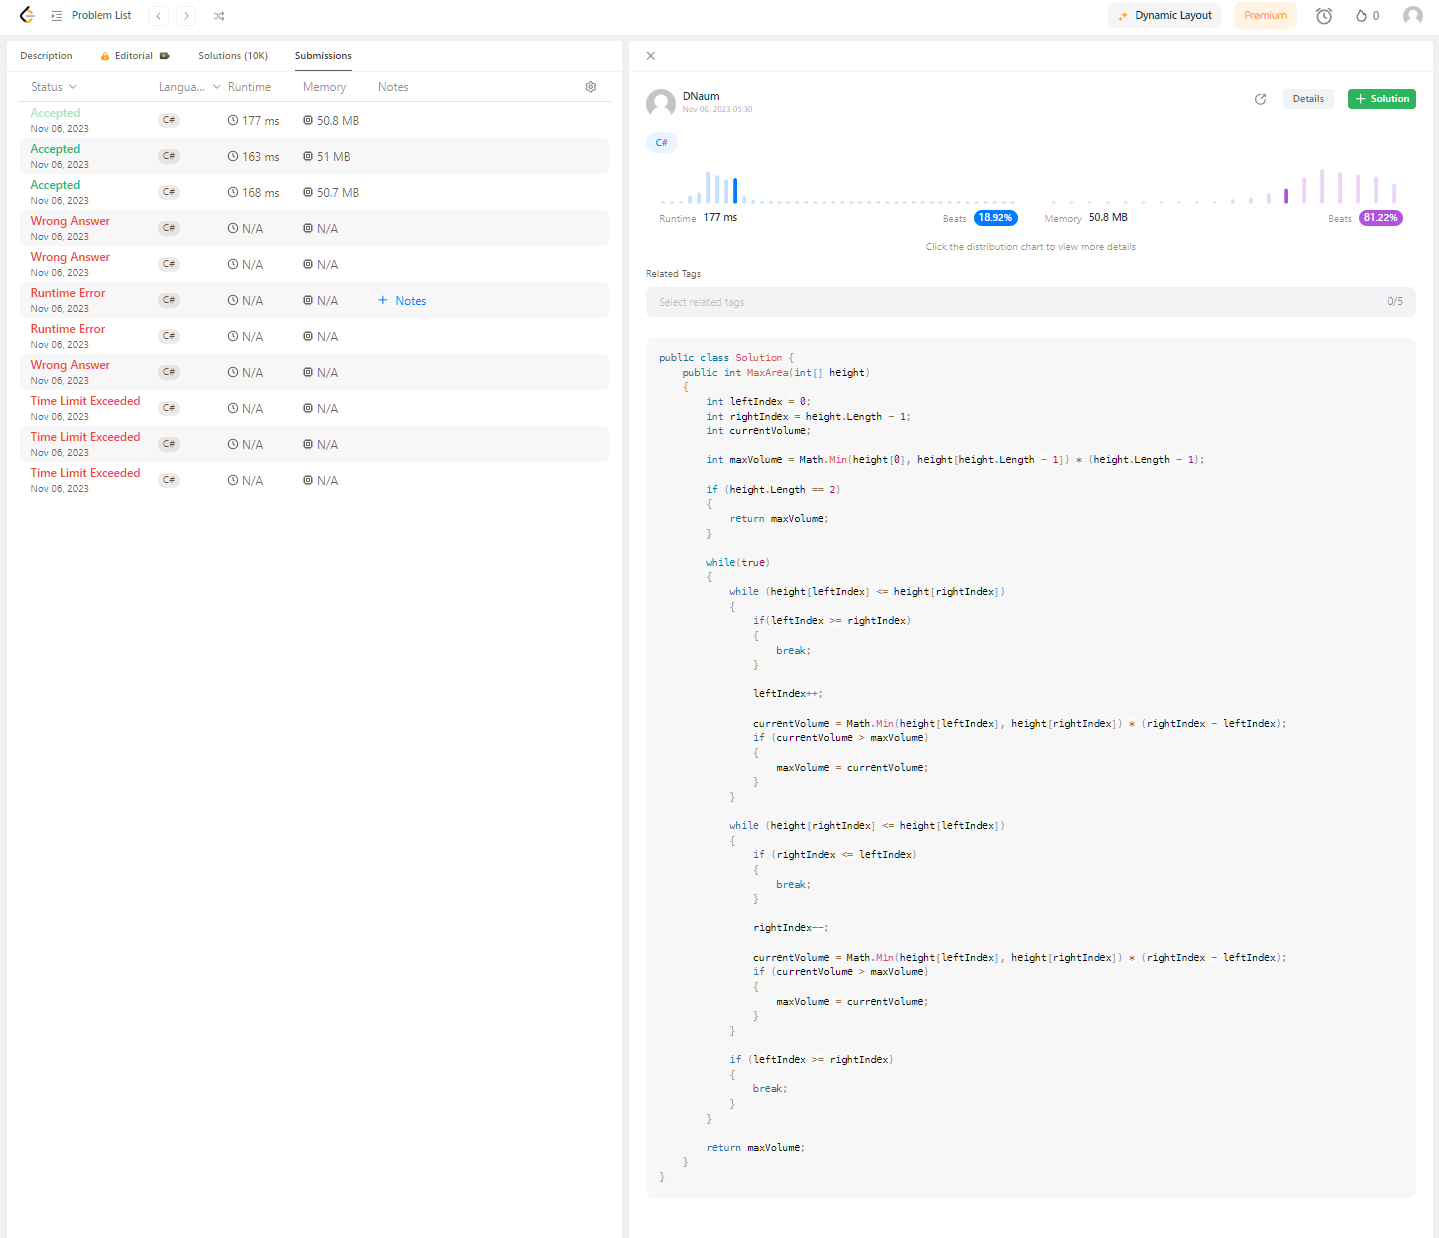
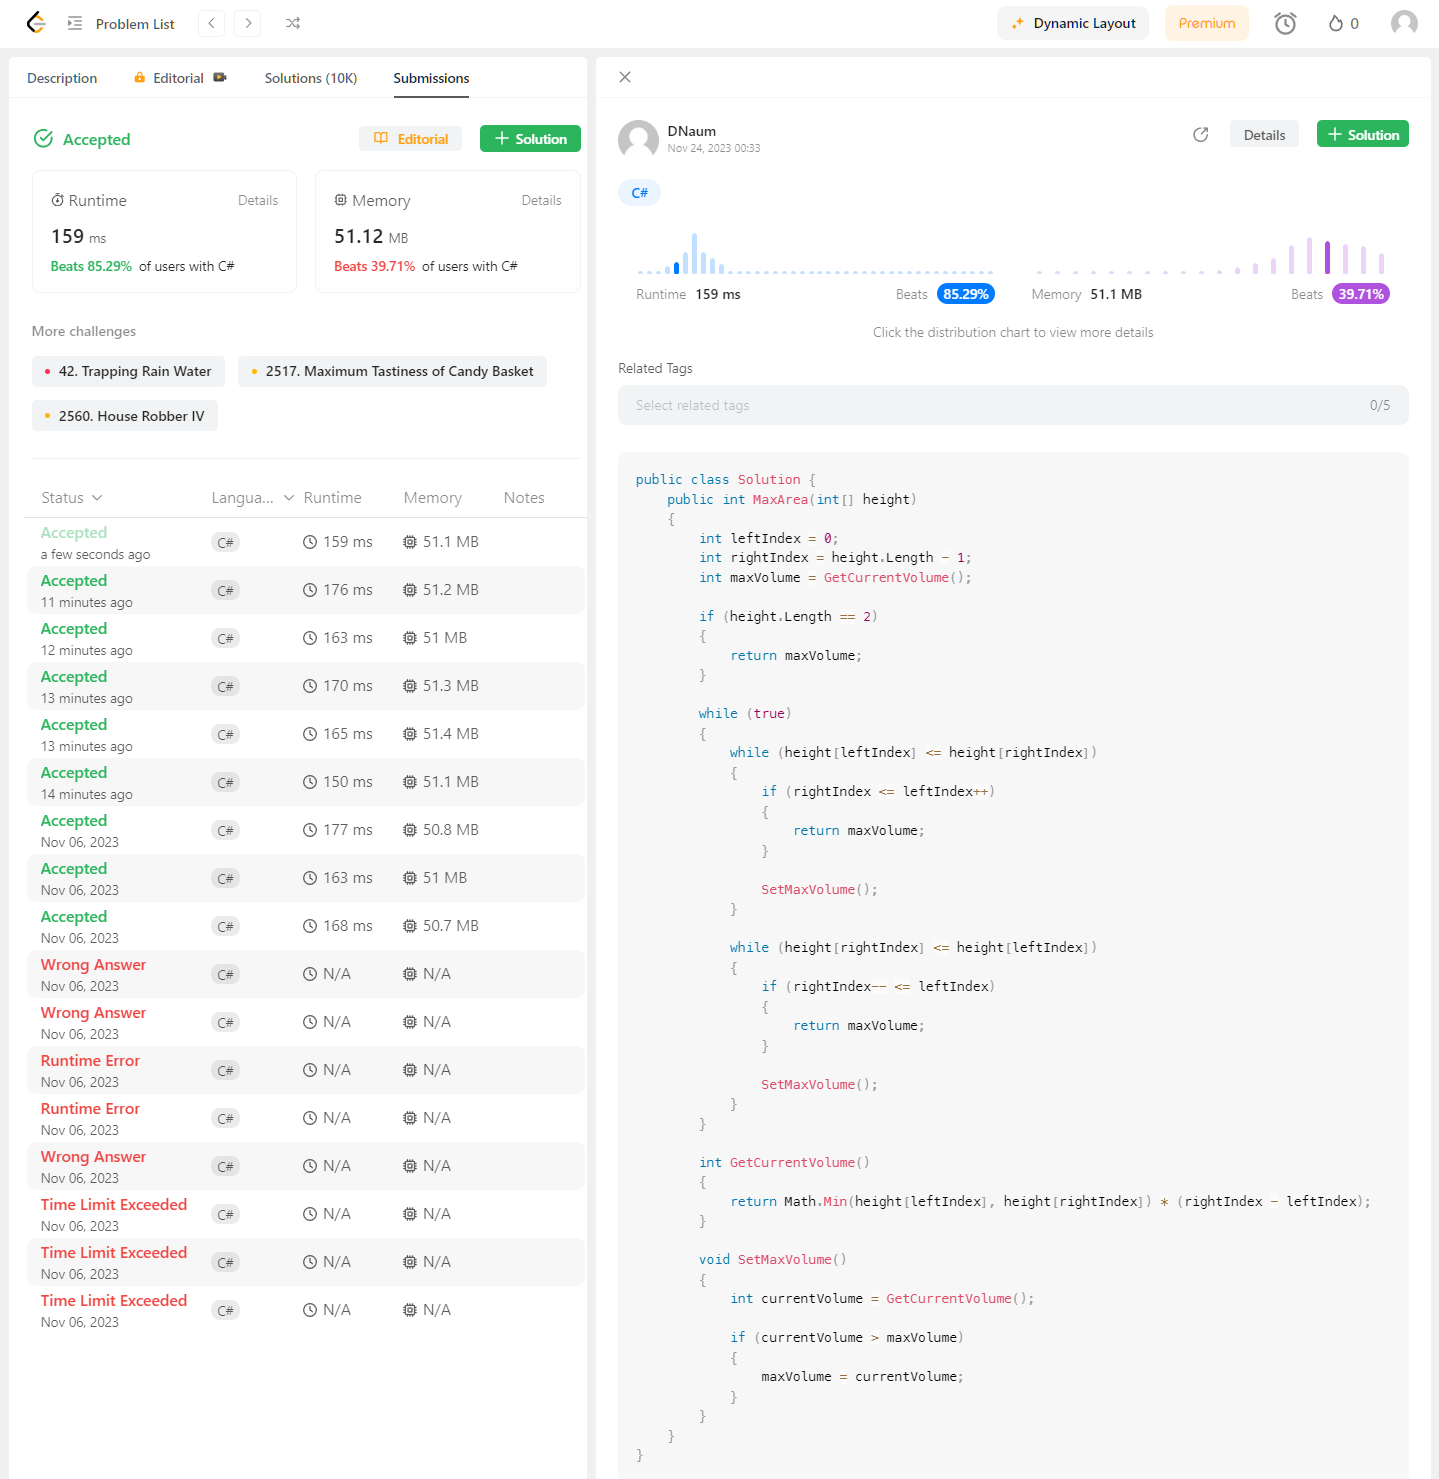
Removed duplication where possible by introducing methods GetCurrentVolume() and SetMaxVolume(). Returns are located inside main cycle. Variable currentVolume was moved to SetMaxVolume() method scope. Resubmitted solution to LC and updated result screenshot.

diff --git a/ScnSoft-Education/LeetCodeTraining/ContainerWithMostWater/ContainerWithMostWaterSolution.cs b/ScnSoft-Education/LeetCodeTraining/ContainerWithMostWater/ContainerWithMostWaterSolution.cs
@@ -7,9 +7,7 @@
         {
             int leftIndex = 0;
             int rightIndex = height.Length - 1;
-            int currentVolume;
-
-            int maxVolume = Math.Min(height[0], height[height.Length - 1]) * (height.Length - 1);
+            int maxVolume = GetCurrentVolume();
 
             if (height.Length == 2)
             {
@@ -20,43 +18,39 @@
             {
                 while (height[leftIndex] <= height[rightIndex])
                 {
-                    if (leftIndex >= rightIndex)
+                    if (rightIndex <= leftIndex++)
                     {
-                        break;
+                        return maxVolume;
                     }
 
-                    leftIndex++;
-
-                    currentVolume = Math.Min(height[leftIndex], height[rightIndex]) * (rightIndex - leftIndex);
-                    if (currentVolume > maxVolume)
-                    {
-                        maxVolume = currentVolume;
-                    }
+                    SetMaxVolume();
                 }
 
                 while (height[rightIndex] <= height[leftIndex])
                 {
-                    if (rightIndex <= leftIndex)
+                    if (rightIndex-- <= leftIndex)
                     {
-                        break;
+                        return maxVolume;
                     }
 
-                    rightIndex--;
-
-                    currentVolume = Math.Min(height[leftIndex], height[rightIndex]) * (rightIndex - leftIndex);
-                    if (currentVolume > maxVolume)
-                    {
-                        maxVolume = currentVolume;
-                    }
-                }
-
-                if (leftIndex >= rightIndex)
-                {
-                    break;
+                    SetMaxVolume();
                 }
             }
 
-            return maxVolume;
+            int GetCurrentVolume()
+            {
+                return Math.Min(height[leftIndex], height[rightIndex]) * (rightIndex - leftIndex);
+            }
+
+            void SetMaxVolume()
+            {
+                int currentVolume = GetCurrentVolume();
+
+                if (currentVolume > maxVolume)
+                {
+                    maxVolume = currentVolume;
+                }
+            }
         }
     }
 }
